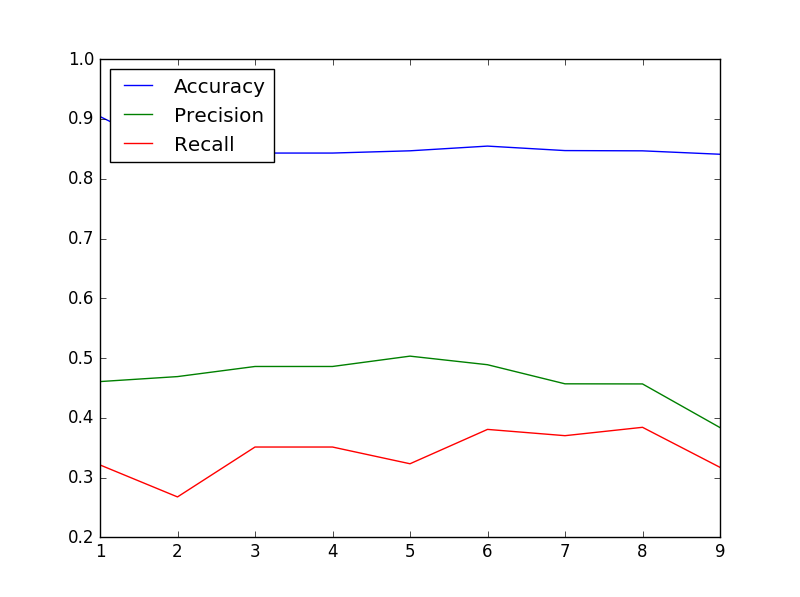
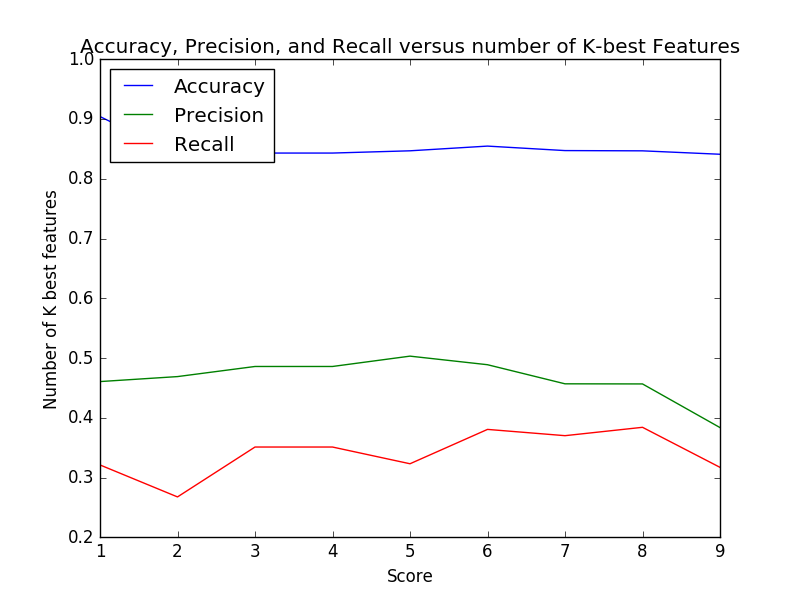
Feat:  add scaling to the report

diff --git a/final_project/poi_functions.py b/final_project/poi_functions.py
@@ -129,82 +129,10 @@ def find_the_best_k_number_of_features(dataset, labels, features, features_list)
 	x_r, y_r = zip(*recall_lists) # unpack a list of pairs into two tuples
 	plt.plot(x_r, y_r)
 	plt.legend(['Accuracy', 'Precision', 'Recall'], loc='upper left')
+	plt.title('Accuracy, Precision, and Recall versus number of K-best Features')
+	plt.xlabel('Score')
+	plt.ylabel('Number of K best features')
 	plt.show()
-	print 'ggggggggggggggggggggggggggggggggggggggggggggggggggggggggggggggggggggggg'
-	print result_accuracy
-	print 'ggggggggggggggggggggggggggggggggggggggggggggggggggggggggggggggggggggggg'
-
-		
-
-	# result = {}
-	# folds= 1000
-	# from sklearn.naive_bayes import GaussianNB
-	# from sklearn.cross_validation import StratifiedShuffleSplit
-	# print 'hhhhhhhhhhhhhhhhhhhhhhhhhhhhhhhhhhhhhhhhhhhhhhhhhhhhhhhhhhhhhhhhhhhhhhhhhhhhhhhhh'
-
-	# for k in xrange(5,10):
-	# 	print k
-	# 	# for feature in features_list_org:
-	# 	# 	# Replace 'NaN' with 0
-	# 	# 	for name in dataset:
-	# 	# 		data_point = dataset[name]
-	# 	# 	if not data_point[feature]:
-	# 	# 		data_point[feature] = 0
-	# 	# 	elif data_point[feature] == 'NaN':
-	# 	# 		data_point[feature] =0
-	# 	feature_list = []
-	# 	feature_list = remove_low_variant_features(labels, features, features_list_org , k)
-	# 	feature_list = ['poi'] + feature_list
-	# 	clf = GaussianNB()
-
-	# 	data = featureFormat(dataset, feature_list, sort_keys = True)
-	# 	labels, features = targetFeatureSplit(data)
-	# 	cv = StratifiedShuffleSplit(labels, folds, random_state = 42)
-	# 	true_negatives = 0
-	# 	false_negatives = 0
-	# 	true_positives = 0
-	# 	false_positives = 0
-	# 	for train_idx, test_idx in cv:
-	# 		features_train = []
-	# 		features_test  = []
-	# 		labels_train   = []
-	# 		labels_test    = []
-	# 		for ii in train_idx:
-	# 			features_train.append( features[ii] )
-	# 			labels_train.append( labels[ii] )
-	# 		for jj in test_idx:
-	# 			features_test.append( features[jj] )
-	# 			labels_test.append( labels[jj] )
-	# 		### fit the classifier using training set, and test on test set
-	#         clf.fit(features_train, labels_train)
-	#         predictions = clf.predict(features_test)
-	#         for prediction, truth in zip(predictions, labels_test):
-	#             if prediction == 0 and truth == 0:
-	#                 true_negatives += 1
-	#             elif prediction == 0 and truth == 1:
-	#                 false_negatives += 1
-	#             elif prediction == 1 and truth == 0:
-	#                 false_positives += 1
-	#             elif prediction == 1 and truth == 1:
-	#                 true_positives += 1
-	#             else:
-	#                 print "Warning: Found a predicted label not == 0 or 1."
-	#                 print "All predictions should take value 0 or 1."
-	#                 print "Evaluating performance for processed predictions:"
-	#                 break
-	# 	try:
-
-	# 		total_predictions = true_negatives + false_negatives + false_positives + true_positives
-	# 		accuracy = 1.0*(true_positives + true_negatives)/total_predictions
-	# 		precision = 1.0*true_positives/(true_positives+false_positives)
-	# 		recall = 1.0*true_positives/(true_positives+false_negatives)
-	# 		f1 = 2.0 * true_positives/(2*true_positives + false_positives+false_negatives)
-	# 		f2 = (1+2.0*2.0) * precision*recall/(4*precision + recall)
-	# 		result[k] = total_predictions
-	# 	except:
-	# 		print "Got a divide by zero when trying out:", clf
-	# 		print "Precision or recall may be undefined due to a lack of true positive predicitons."
-	# print result
 
 def remove_low_variant_features(labels, features, features_list , k):
 
@@ -250,9 +178,7 @@ def clf_KNeighbors(dataset, features_list):
 
 
 def clf_best_params_KNeighbors(dataset, features_list):
-	print '****************************************START Tunned KNeighbors***************************'
-	
-	# based on grid search n_neighbors =1 and  algorithm='ball_tree' gives the best result
+	print '****************************************START Tunned KNeighbors***************************'	
 	from sklearn.grid_search import GridSearchCV
 	from sklearn import neighbors
 	from sklearn.pipeline import Pipeline
@@ -260,16 +186,13 @@ def clf_best_params_KNeighbors(dataset, features_list):
 	from sklearn import cross_validation
 	from time import time
 
-	startTime	  = time()
-	y       	  = np.sign(np.arange(-5.5,14))
-	nFolds 		  = 4
+	startTime	  = time()	
 	metrics       = ['minkowski','euclidean','manhattan'] 
 	weights       = ['uniform','distance']
 	numNeighbors  = np.arange(6,10)
 	algorithms 	  = ['ball_tree','kd_tree','brute','auto']
-	param_grid    = dict(knn__metric=metrics,knn__weights=weights,knn__n_neighbors=numNeighbors, knn__algorithm=algorithms)
-	cv           = cross_validation.StratifiedKFold(y,nFolds)
-	grid = GridSearchCV(Pipeline([('scale', StandardScaler()), ('knn', neighbors.KNeighborsClassifier())]), param_grid=param_grid, scoring='recall', cv=cv)
+	param_grid    = dict(knn__metric=metrics,knn__weights=weights,knn__n_neighbors=numNeighbors, knn__algorithm=algorithms)	
+	grid = GridSearchCV(Pipeline([('scale', StandardScaler()), ('knn', neighbors.KNeighborsClassifier())]), param_grid=param_grid, scoring='recall')
 
 	test_classifier(grid, dataset, features_list)
 	print 'Tuning of KNN parameters took {} seconds with these parameters {} '.format(round(time()-startTime, 3), grid.best_params_)
@@ -277,25 +200,20 @@ def clf_best_params_KNeighbors(dataset, features_list):
 	print '****************************************END Tunned KNeighbors***************************'
 
 def clf_best_params_DecisionTree(dataset, features_list):
-	print '****************************************START Tunned DecisionTree***************************'
-	
-	# based on grid search n_neighbors =1 and  algorithm='ball_tree' gives the best result
+	print '****************************************START Tunned DecisionTree***************************'	
 	from sklearn.grid_search import GridSearchCV
 	from sklearn import tree
 	from time import time
 	from sklearn import cross_validation
 
-	startTime	 = time()
-	y       	 = np.sign(np.arange(-5.5,14))
-	nFolds 		 = 4
+	startTime	 = time()	
 	criterions   = ['gini', 'entropy'] 
 	splitters    = ['best','random']
 	n_estimators = [50, 100, 150, 200]
 	max_depths 	 = [2, 4, 6, 8]
 	min_splits   = [10, 20, 40]
-	param_grid   = dict(max_depth = max_depths, min_samples_split = min_splits)
-	cv           = cross_validation.StratifiedKFold(y,nFolds)
-	grid 		 = GridSearchCV(tree.DecisionTreeClassifier(),param_grid=param_grid, scoring='recall', cv=cv)
+	param_grid   = dict(max_depth = max_depths, min_samples_split = min_splits)	
+	grid 		 = GridSearchCV(tree.DecisionTreeClassifier(),param_grid=param_grid, scoring='recall')
 
 	test_classifier(grid, dataset, features_list)
 	print 'Tuning of DecisionTree parameters took {} seconds with these parameters {}'.format(round(time()-startTime, 3), grid.best_params_)

diff --git a/final_project/poi_id.py b/final_project/poi_id.py
@@ -61,9 +61,9 @@ data_dict.pop( 'THE TRAVEL AGENCY IN THE PARK', 0 )
 #printOutliers(data_dict,"total_stock_value",1)
 #data_dict.pop( 'LAY KENNETH L', 0 )
 
-# scatterPlot(data_dict, ['total_payments', 'total_stock_value'] , " total_payments and total_stock_value")
-# scatterPlot(data_dict, ['from_poi_to_this_person', 'from_this_person_to_poi'] , " from_poi_to_this_person and from_this_person_to_poi")
-# scatterPlot(data_dict, ['salary', 'bonus'] ," salary and bonus" )
+scatterPlot(data_dict, ['total_payments', 'total_stock_value'] , " total_payments and total_stock_value")
+scatterPlot(data_dict, ['from_poi_to_this_person', 'from_this_person_to_poi'] , " from_poi_to_this_person and from_this_person_to_poi")
+scatterPlot(data_dict, ['salary', 'bonus'] ," salary and bonus" )
 
 # end Finding with plotting
 
@@ -88,8 +88,7 @@ labels, features = targetFeatureSplit(data)
 
 find_the_best_k_number_of_features(my_dataset, labels, features, features_list)
 
-# selected_featureList = ['poi'] + remove_low_variant_features(labels, features, features_list, 5)
-# clf_naive_bayes(my_dataset, selected_featureList)
+selected_featureList = ['poi'] + remove_low_variant_features(labels, features, features_list, 6)
 
 # selected_featureList = ['poi'] + remove_low_variant_features(labels, features, features_list, 6)
 # clf_naive_bayes(my_dataset, selected_featureList)
@@ -100,14 +99,14 @@ find_the_best_k_number_of_features(my_dataset, labels, features, features_list)
 ### http://scikit-learn.org/stable/modules/pipeline.html
 
 # Provided to give you a starting point. Try a variety of classifiers.
-# clf_naive_bayes(my_dataset, selected_featureList)
-# clf_naive_bayes(my_dataset, all_features_test)
+clf_naive_bayes(my_dataset, selected_featureList)
+clf_naive_bayes(my_dataset, all_features_test)
 
-# clf_decisionTree(my_dataset, selected_featureList)
-# clf_decisionTree(my_dataset, all_features_test)
+clf_decisionTree(my_dataset, selected_featureList)
+clf_decisionTree(my_dataset, all_features_test)
 
-# clf_KNeighbors(my_dataset, selected_featureList)
-# clf_KNeighbors(my_dataset, all_features_test)
+clf_KNeighbors(my_dataset, selected_featureList)
+clf_KNeighbors(my_dataset, all_features_test)
 
 
 ### Task 5: Tune your classifier to achieve better than .3 precision and recall 
@@ -118,8 +117,8 @@ find_the_best_k_number_of_features(my_dataset, labels, features, features_list)
 ### http://scikit-learn.org/stable/modules/generated/sklearn.cross_validation.StratifiedShuffleSplit.html
 
 # clf_best_params_KNeighbors(my_dataset, features_list)
-# clf_best_params_KNeighbors(my_dataset, selected_featureList)
-# clf_best_params_DecisionTree(my_dataset, selected_featureList)
+clf_best_params_KNeighbors(my_dataset, selected_featureList)
+clf_best_params_DecisionTree(my_dataset, selected_featureList)
 
 
 from sklearn.naive_bayes import GaussianNB

diff --git a/final_project/tester.py b/final_project/tester.py
@@ -40,8 +40,7 @@ def test_classifier(clf, dataset, feature_list, folds = 1000):
             labels_train.append( labels[ii] )
         for jj in test_idx:
             features_test.append( features[jj] )
-            labels_test.append( labels[jj] )
-        
+            labels_test.append( labels[jj] )      
         ### fit the classifier using training set, and test on test set
         clf.fit(features_train, labels_train)
         predictions = clf.predict(features_test)

diff --git a/README.md b/README.md
@@ -52,7 +52,7 @@ I found and removed the following outliers from Enron dataset via plotting the d
 * from_poi_to_this_person_ratio
 * bonus_ratio
 
-I used SelectKBest algorithm to score the features and select the top 6 features to try classification according to the follwoing plot we have the almost the best precision and Recall when we choose 6 as K.
+I used SelectKBest algorithm to score the features here is the result of scoring:
 
 | FeatureName                       | Score               |
     | -------------                 | -------------       |
@@ -79,11 +79,11 @@ I used SelectKBest algorithm to score the features and select the top 6 features
     | from_messages                 | 0.16970094762175533 |
     | restricted_stock_deferred     | 0.065499652909942141|
 
+In order to choose the best K value for feature selection, I created the following plot where precision and recall are presented for different values of k. the best result will be with K=6 that has the best possible precision and recall at the same time:
+
+![alt text](https://github.com/mehdi-jafari/identify-fraud-from-enron-email/blob/master/final_project/figure_1.png?raw=true "Accuracy, Precision, and Recall versus number of K-best Features")
  Here are the selected features:
-['exercised_stock_options', 'total_stock_value', 'bonus', 'bonus_ratio', 'salary', 'deferred_income', 'long_term_incentive', 'restricted_stock', 'total_payments', 'shared_receipt_with_poi', 'poi']
-
-![number of K-Best Features plot ](final_project\figure_1.png)
-
+['exercised_stock_options', 'total_stock_value', 'bonus', 'bonus_ratio', 'salary', 'deferred_income', 'poi']
 As we can see in the list only one of the three engnineerd features (bonus_ratio) is in the top 10 list.
 
 **3- What algorithm did you end up using? What other one(s) did you try? How did model performance differ between algorithms?  [relevant rubric item: “pick an algorithm”]**
@@ -91,37 +91,38 @@ I tried the following algorithms to compare their performances with the low vari
 
 | Classification| Accuracy | Precision | Recall  | F1      |
 | ------------- | ---------| --------- | ------- | ------- |
-|**Naïve Bayes**| 0.83613  | 0.36639   | 0.31400 | 0.33818 |
-| Decision Tree | 0.80773  | 0.28376   | 0.29000 | 0.28684 |
-| K-Neighbors   | 0.87640  | 0.63878   | 0.16800 | 0.26603 |
+|**Naïve Bayes**| 0.85464  | 0.48876   | 0.38050 | 0.42789 |
+| Decision Tree | 0.79907  | 0.30466   | 0.31700 | 0.31071 |
+| K-Neighbors   | 0.87657  | 0.68733   | 0.24950 | 0.36610 |
 
 In order to validate that the selected features have better performance than using all features, I tried the same algorithms with all features and here is the result:
 
 | Classification| Accuracy | Precision | Recall  | F1      |
 | ------------- | ---------| --------- | ------- | ------- |
 | Naïve Bayes   | 0.73900  | 0.22604   | 0.39500 | 0.28753 |
-| Decision Tree | 0.79633  | 0.22540   | 0.21650 | 0.22086 |
+| Decision Tree | 0.79427  | 0.22125   | 0.21550 | 0.21834 |
 | K-Neighbors   | 0.87920  | 0.65461   | 0.19900 | 0.30521 |
 
 As we can see in the table above, Naive bays has the best performance among these three algorithms with selected features.
 
 **4- What does it mean to tune the parameters of an algorithm, and what can happen if you don’t do this well?  How did you tune the parameters of your particular algorithm? What parameters did you tune? (Some algorithms do not have parameters that you need to tune -- if this is the case for the one you picked, identify and briefly explain how you would have done it for the model that was not your final choice or a different model that does utilize parameter tuning, e.g. a decision tree classifier).  [relevant rubric items: “discuss parameter tuning”, “tune the algorithm”]**
 
-Machine learning algorithms require you to set parameters before you use the models. In other words, Machine learning algorithms are parametrized and setting those parameters depend on many factors. The goal is to set those parameters to so optimal values that gives you the best performance in terms of accuracy, precision and recall.
-Setting those parameters could drive to overfitting which is a common phenomenon in machine learning that we have to be aware of every time we do machine learning.
+Machine learning algorithms require you to set parameters before you use the models. In other words, Machine learning algorithms are parametrized and setting those parameters depend on many factors. The goal is to set those parameters to so optimal values that gives you the best performance in terms of accuracy, precision and recall. Setting those parameters could drive to overfitting which is a common phenomenon in machine learning that we must be aware of to limit and constrain how much detail the model learns once we train the model.
 
- I used GridSearchCV to tune find the best result for DecisionTree and K-Nieghbors algorithms by using different parameter. Here is what the best parameters and their performance:
+ I used GridSearchCV to tune find the best result for DecisionTree and K- K-Neighbors algorithms by using different parameter. Here is what the best parameters and their performance:
 | Classification| time*| Accuracy | Precision | Recall  | F1     | Best parameters|
 | ------------- | -------| ---------| --------- | ------- | ------- |-------         |
 | Decision Tree | 0.80773| 0.84913  | 0.32301   | 0.12000 | 0.17499 |{'min_samples_split': 10, 'max_depth': 2} |
 | K-Neighbors   | 2865|  0.86607 | 0.15385   | 0.00100 | 0.00199 |{'knn__algorithm': 'ball_tree', 'knn__weights': 'uniform', 'knn__metric': 'minkowski', 'knn__n_neighbors': 6}         |
 *time : the time that is taken to find the best parameters.
 
+Since feature scaling does not affect decision tree, it wasn't applied to tune decision tree whereas in tuning KK I used StandardScaler is to preprocess the data.
+
 The algorithm that has the best performance is Naïve Bayes.
 
 **5- What is validation, and what’s a classic mistake you can make if you do it wrong? How did you validate your analysis?  [relevant rubric items: “discuss validation”, “validation strategy”]**
-Validation is the process that we should use to get an assessment of the performance of our classifier or our regression on an independent dataset and helps us to prevent overfitting. A classic mistake of validation is doing validation without shuffling.
-I used cross_validation.StratifiedKFold to validate the result where it searches for the best parameters for DecisionTree and K-Nieghbors algorithms.
+Validation is the process that we should use to get an assessment of the performance of our classifier or our regression on an independent dataset and helps us to prevent overfitting. A classic mistake of validation is doing validation without shuffling. Since In this project we are dealing with a small and imbalanced dataset I use StratifiedShuffleSplit.
+
 
 **6- Give at least 2 evaluation metrics and your average performance for each of them.  Explain an interpretation of your metrics that says something human-understandable about your algorithm’s performance. [relevant rubric item: “usage of evaluation metrics”]**
 
